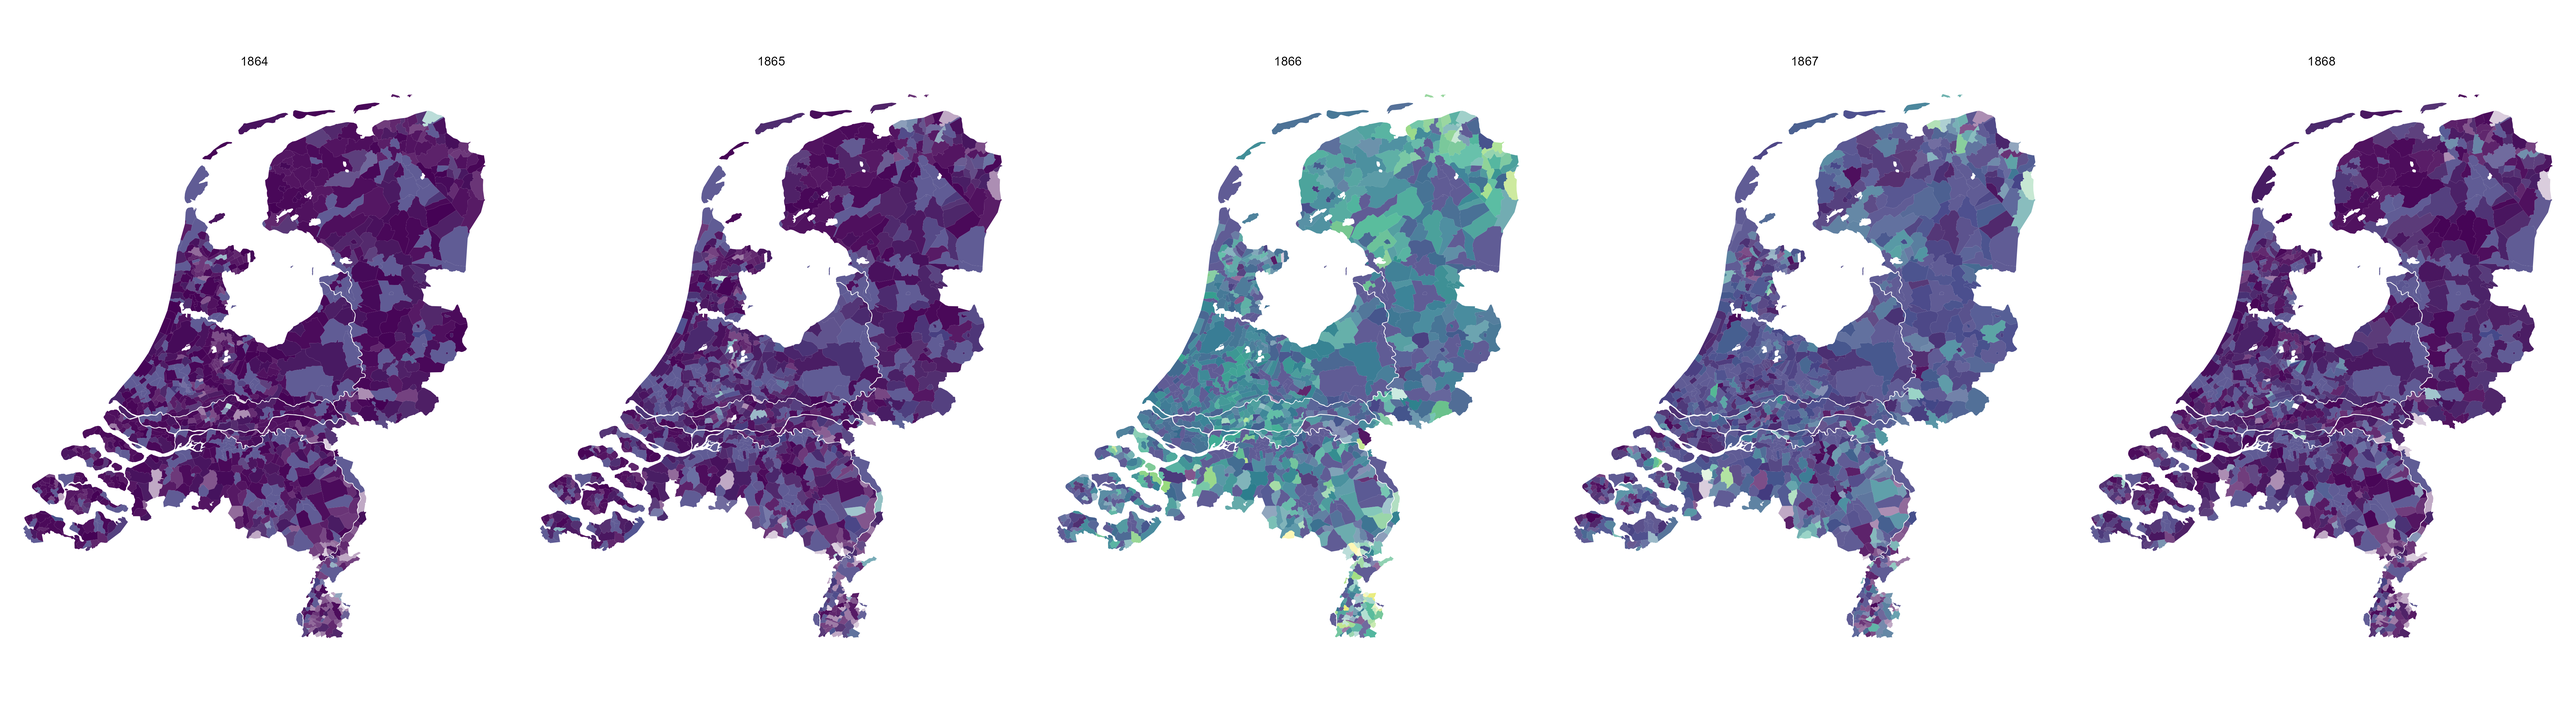
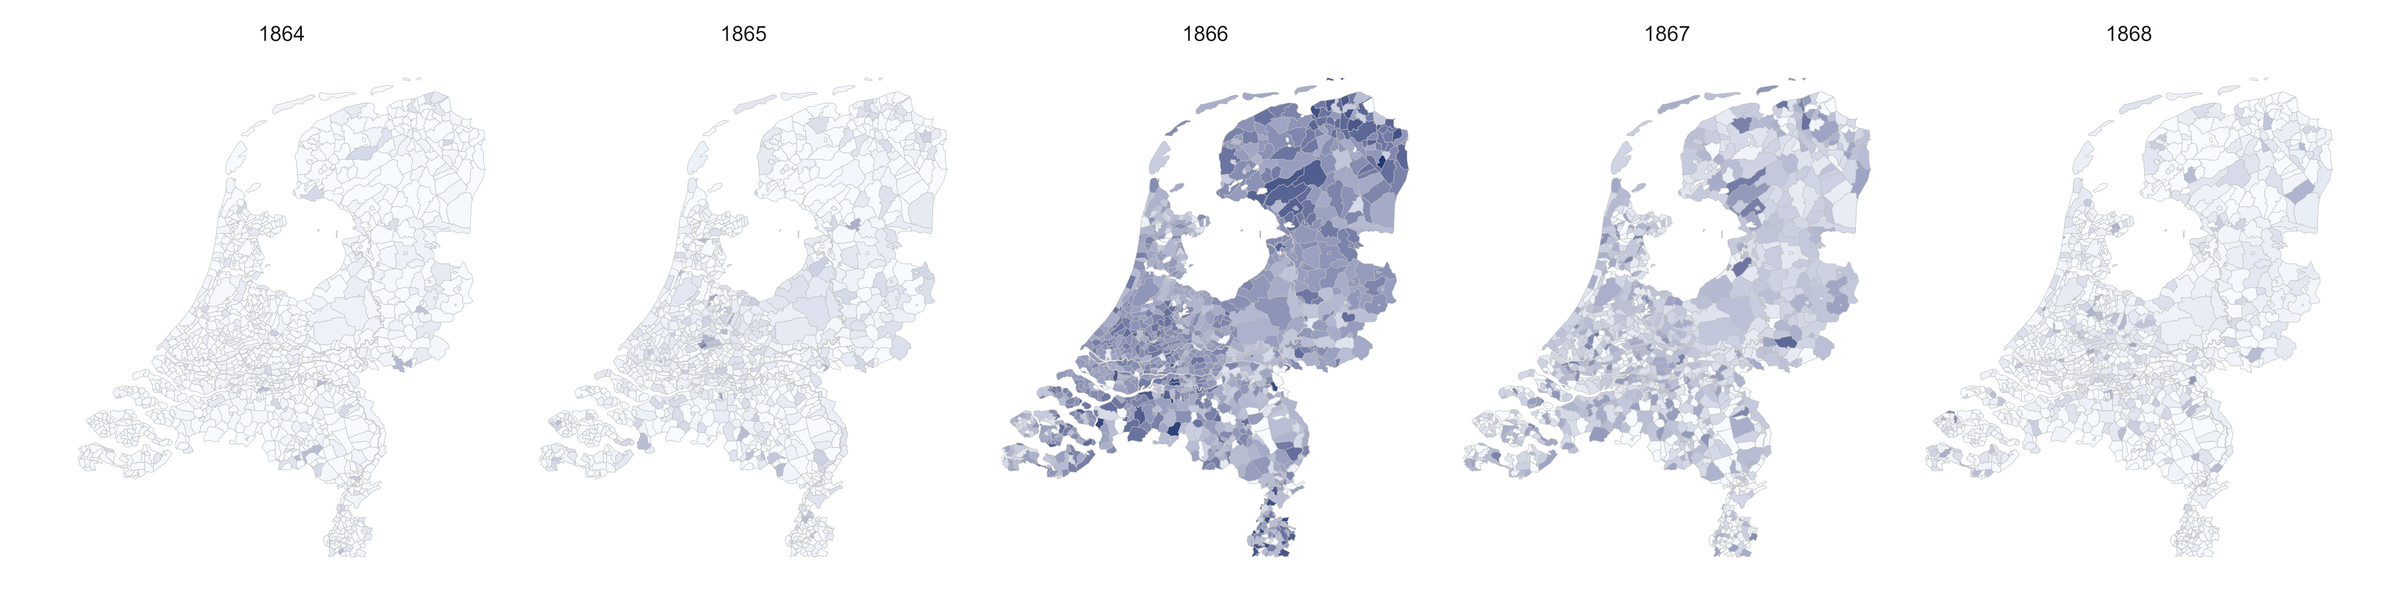
Further update readme
Update colour scheme of header image as well

diff --git a/README.md b/README.md
@@ -1,15 +1,28 @@
 # Disease database 
 [![Project Status: Active – The project has reached a stable, usable state and is being actively developed.](https://www.repostatus.org/badges/latest/active.svg)](https://www.repostatus.org/#active)
 [![GitHub Release](https://img.shields.io/github/v/release/sodascience/disease_database?include_prereleases)](https://github.com/sodascience/disease_database/releases/latest)
+![uv](https://img.shields.io/endpoint?url=https://raw.githubusercontent.com/astral-sh/uv/main/assets/badge/v0.json) 
+
 
 Code to create a historical disease database (19th-20th century) for municipalities in the Netherlands.
 
 ![Cholera in the Netherlands](img/cholera_1864_1868.png)
+_Cholera mention rates in the mid-1860s ([`source code`](src/analysis/create_map.R))_
 
-Other things related to this database:
+This database was produced by:
+- 🚜 Harvesting >80 million Dutch newspaper texts in the period 1830-1940 from [Delpher](https://www.delpher.nl/).
+- 🔎 Finding mentions of locations and diseases in these texts via [hand-crafted regex](./raw_data/manual_input).
+- 💽 Processing the results and creating a user-friendly historical disease database for the following diseases:
+  - cholera, diphteria, dysentery, influenza, malaria, measles, scarlet fever, smallpox, tuberculosis, and typhus.
 
-- [Disease database viewer](https://github.com/sodascience/disease_database_viewer): an experimental R shiny app to interactively view the disease database.
-- [Initial exploration into smoothing](https://erikjanvankesteren.nl/blog/smooth_disease) the mention rates within the disease database, using spatial, temporal, and spatiotemporal models.
+
+⏬ [Download the database from the latest release page](https://github.com/sodascience/disease_database/releases/latest) ⏬
+
+
+Other resources related to this database:
+
+- 🗺 [Disease database viewer](https://github.com/sodascience/disease_database_viewer): an experimental R shiny app to interactively view the disease database.
+- 🕵♀ [Initial exploration into smoothing](https://erikjanvankesteren.nl/blog/smooth_disease) the mention rates within the disease database, using spatial, temporal, and spatiotemporal models.
 
 ## Installation
 
@@ -27,9 +40,7 @@ uv sync
 
 this will automatically install the right python version, create a virtual environment, and install the required packages. If you choose not to use `uv`, you can replace `uv run` in the code examples in this repo with `python`.
 
-Note, on macOS, if you encounter `error: command 'cmake' failed: No such file or directory`, you need to install [cmake](https://cmake.org/download/) first. On macOS, run `brew install cmake`. Similarly, you may have to install `apache-arrow` separately as well (e.g., on macOS `brew install apache-arrow`).
-
-Once these dependency issues are solved, run `uv sync` one more time.
+> 🍏 macOS note: if you encounter `error: command 'cmake' failed: No such file or directory`, you need to install [cmake](https://cmake.org/download/) first, e.g., through `brew install cmake`. Similarly, you may have to install `apache-arrow` separately as well (`brew install apache-arrow`). Once these dependency issues are solved, run `uv sync` one more time.
 
 ## Running the data processing pipeline
 
@@ -45,7 +56,7 @@ Each of the separate processing steps (rectangles in the above image) has its ow
 
 ## Data analysis
 
-For a basic analysis after the database has been created, take a look at the file `src/analysis/query_db.py`. 
+For a basic analysis after the database has been created, take a look at the file [`src/analysis/query_db.py`](src/analysis/query_db.py). 
 
 ![](./img/two_diseases_three_cities.png)
 
